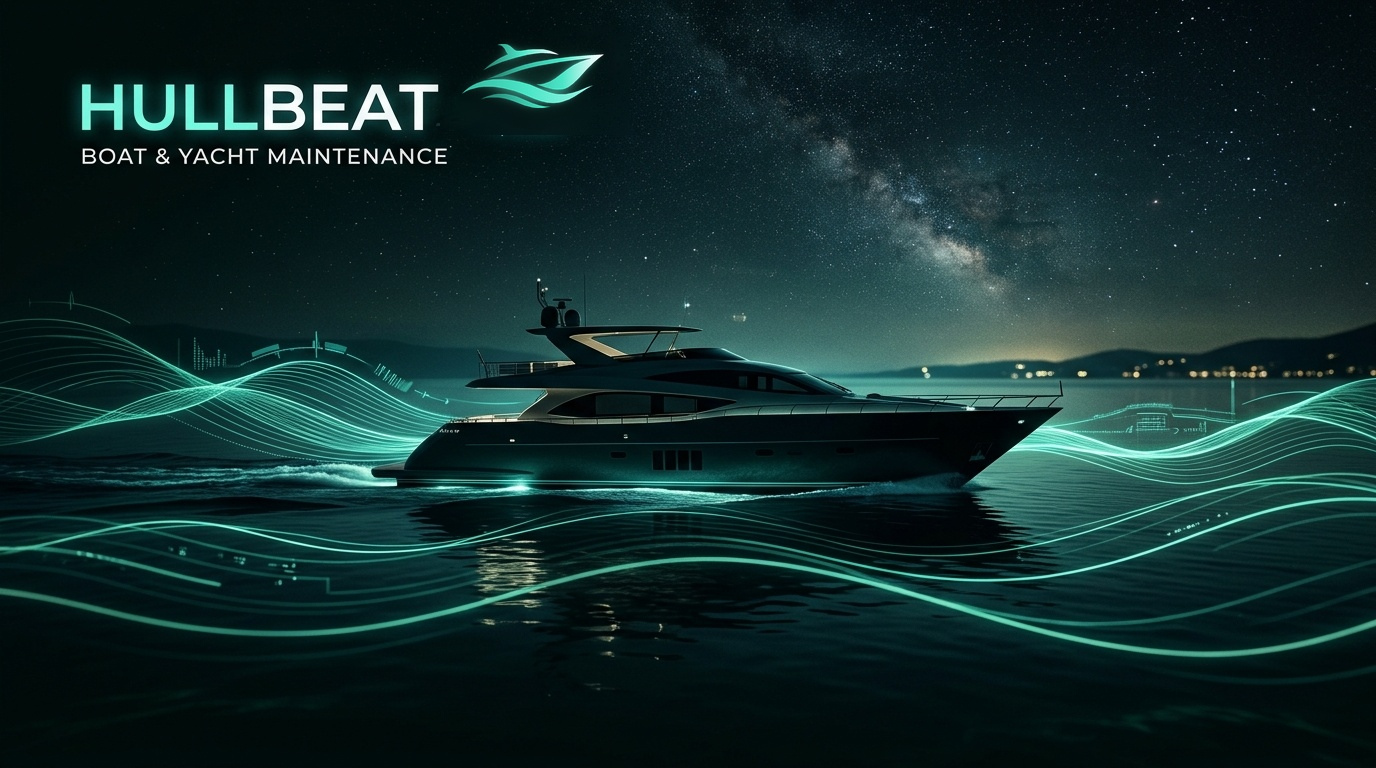
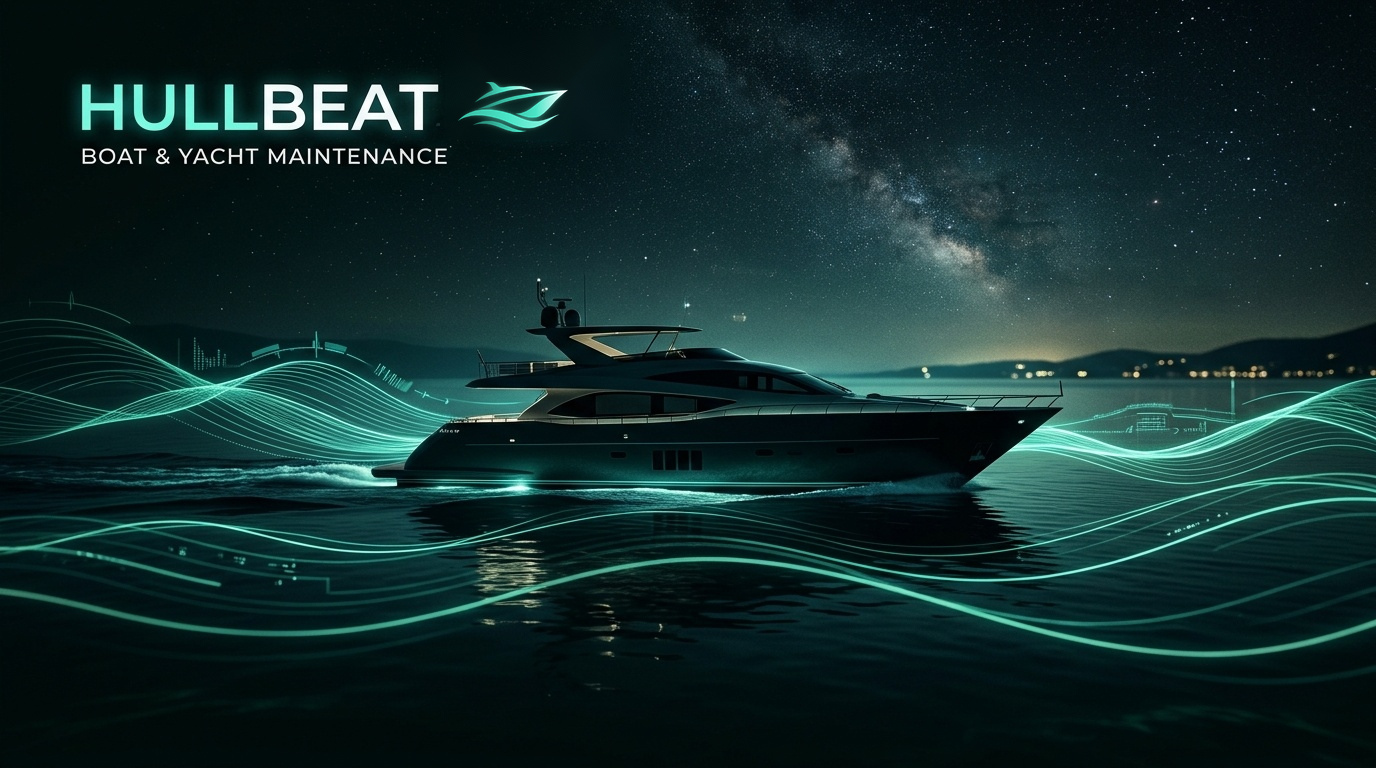
design: align yacht emblem to exact horizontal baseline with HULLBEAT wordmark

Changed region(s): [[0.3438, 0.0625, 0.4375, 0.1875]]

diff --git a/README.md b/README.md
@@ -1,5 +1,5 @@
 <p align="center">
-  <img src="design/banner-header.jpg" alt="HullBeat Banner" width="100%" style="border-radius: 12px; box-shadow: 0 8px 24px rgba(0,0,0,0.4);" />
+  <img src="design/banner-header.jpg?v=3" alt="HullBeat Banner" width="100%" style="border-radius: 12px; box-shadow: 0 8px 24px rgba(0,0,0,0.4);" />
 </p>
 
 <p align="center">
